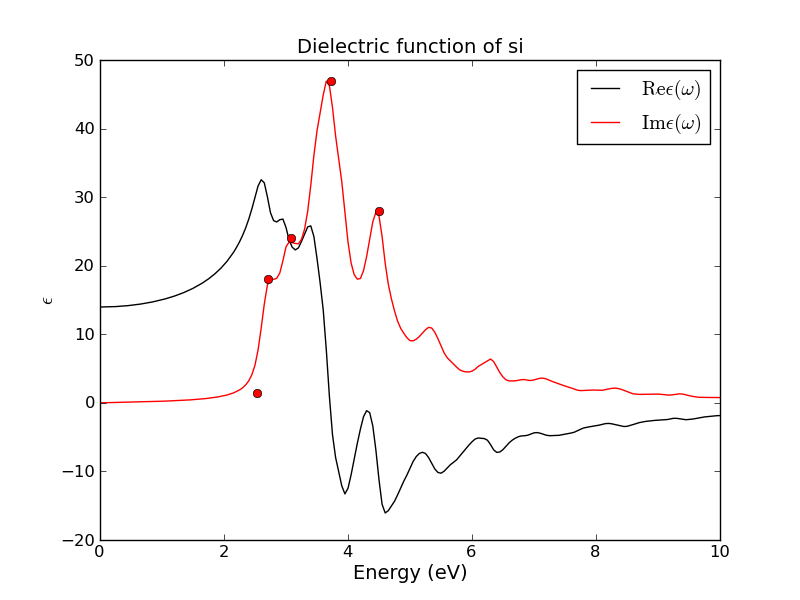
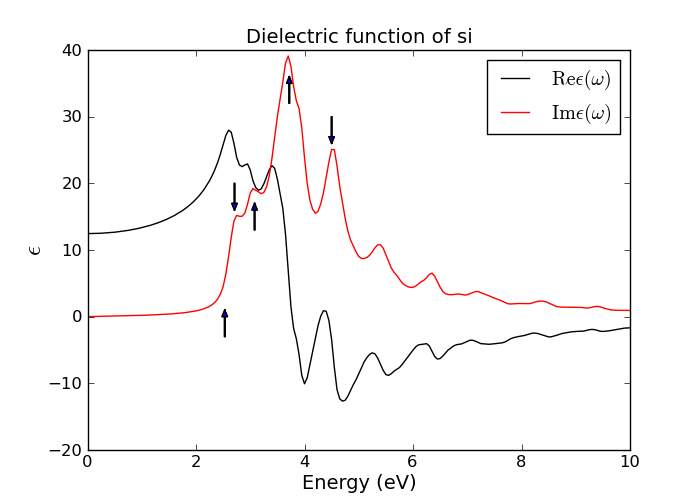
update tutorial
git-svn-id: https://svn.fysik.dtu.dk/projects/gpaw/trunk@6617 6419b465-d902-0410-997c-be2266baf723

diff --git a/doc/tutorials/dielectric_response/plot_ABS.py b/doc/tutorials/dielectric_response/plot_ABS.py
@@ -1,19 +1,38 @@
 import numpy as np
+from gpaw.test import wrap_pylab
+wrap_pylab()
 import pylab as pl
     
 def plot_ABS(head):    
     # plot optical absorption specctrum
-    pl.figure()
+    pl.figure(figsize=(7,5))
     d = np.loadtxt(head+'_abs.dat')
-    pl.plot(d[:,0], d[:,1], '-k', label='$\mathrm{Re}\epsilon(\omega)$')
-    pl.plot(d[:,0], d[:,2], '-r', label='$\mathrm{Im}\epsilon(\omega)$')
+    pl.plot(d[:,0], d[:,3], '-k', label='$\mathrm{Re}\epsilon(\omega)$')
+    pl.plot(d[:,0], d[:,4], '-r', label='$\mathrm{Im}\epsilon(\omega)$')
 
     fsize = 14
     pl.title('Dielectric function of ' + head)
     pl.legend()
     pl.xlabel('Energy (eV)', fontsize=fsize)
-    pl.ylabel('$\epsilon$', fontsize=fsize)
+    pl.ylabel('$\epsilon$', fontsize=18)
     
 plot_ABS('si')
 
+# data from G.Kresse, PRB 73, 045112 (2006) 
+x = np.array([2.53, 2.71, 3.08, 3.72, 4.50])
+
+arr1 = pl.arrow(2.53, -3, 0, 3.,width=0.01,head_width=0.1,head_length=1)
+arr2 = pl.arrow(2.71, 20, 0, -3.,width=0.01,head_width=0.1,head_length=1)
+arr3 = pl.arrow(3.08, 13, 0, 3.,width=0.01,head_width=0.1,head_length=1)
+arr4 = pl.arrow(3.72, 32, 0, 3.,width=0.01,head_width=0.1,head_length=1)
+arr5 = pl.arrow(4.50, 30, 0, -3.,width=0.01,head_width=0.1,head_length=1)
+
+ax = pl.gca()
+ax.add_patch(arr1)
+ax.add_patch(arr2)
+ax.add_patch(arr3)
+ax.add_patch(arr4)
+ax.add_patch(arr5)
+
+pl.xlim(0,10)
 pl.show()

diff --git a/doc/tutorials/dielectric_response/dielectric_response.rst b/doc/tutorials/dielectric_response/dielectric_response.rst
@@ -139,7 +139,7 @@ It takes 40 minutes with 16 cpus on Intel Xeon X5570 2.93GHz.
 .. image:: silicon_ABS.png
 	   :height: 300 px
 
-The red dots are extracted from \ [#Kresse]_. 
+The arrows are data extracted from \ [#Kresse]_. 
 
 The obtained macroscopic dielectric function is 13.99 (without local field) 
 and 12.54 (with local field). They compare good with 14.08 and 12.66 from \ [#Kresse]_, respectively. 
